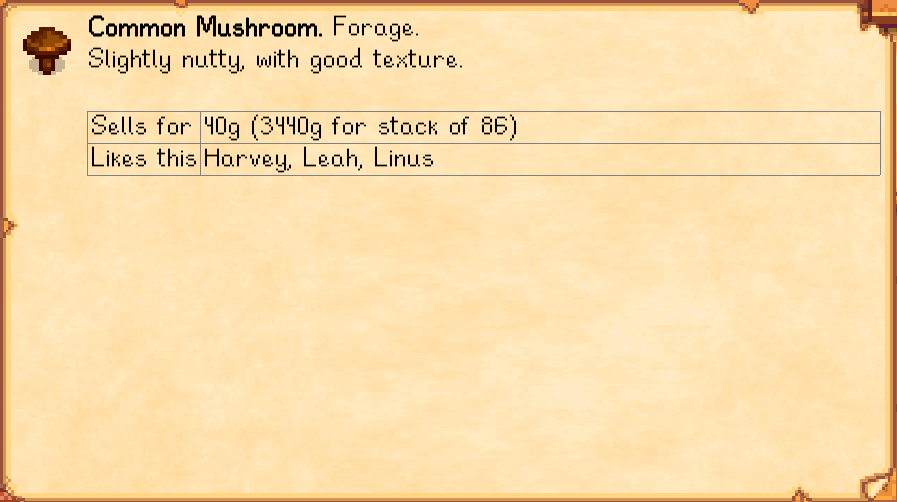
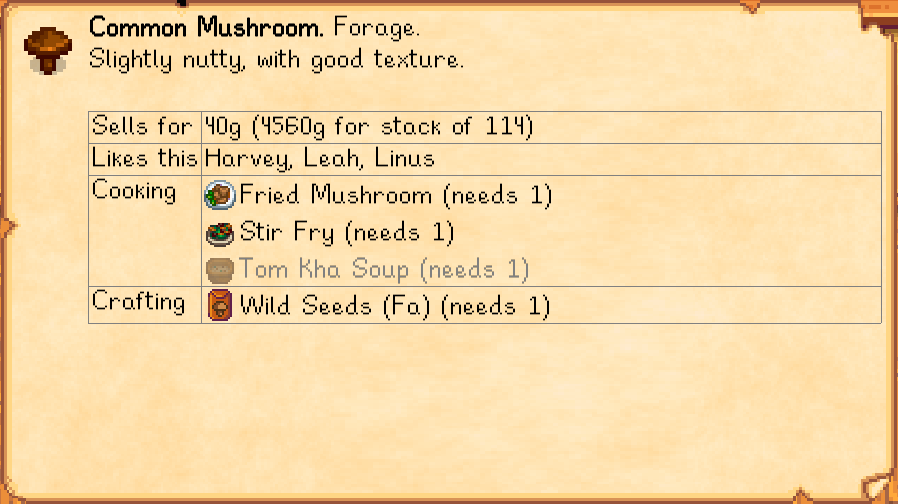
show recipes which use the looked-up item

diff --git a/LookupAnything/Framework/Fields/RecipesForIngredientField.cs b/LookupAnything/Framework/Fields/RecipesForIngredientField.cs
@@ -1,0 +1,93 @@
+using System;
+using System.Collections.Generic;
+using System.Linq;
+using Microsoft.Xna.Framework;
+using Microsoft.Xna.Framework.Graphics;
+using Pathoschild.LookupAnything.Components;
+using Pathoschild.LookupAnything.Framework.Models;
+using StardewValley;
+
+namespace Pathoschild.LookupAnything.Framework.Fields
+{
+    /// <summary>A metadata field which shows a list of recipes containing an ingredient.</summary>
+    internal class RecipesForIngredientField : GenericField
+    {
+        /*********
+        ** Properties
+        *********/
+        /// <summary>The recipe data to list (recipe => {player knows recipe, number required for recipe}).</summary>
+        private readonly IDictionary<RecipeData, Tuple<bool, int>> Recipes;
+
+
+        /*********
+        ** Public methods
+        *********/
+        /// <summary>Construct an instance.</summary>
+        /// <param name="label">A short field label.</param>
+        /// <param name="itemID">The ingredient's item ID.</param>
+        /// <param name="recipes">The recipe to list.</param>
+        public RecipesForIngredientField(string label, int itemID, RecipeData[] recipes)
+            : base(label, null, hasValue: true)
+        {
+            this.Recipes = recipes
+                .ToDictionary(
+                    recipe => recipe,
+                    recipe => Tuple.Create(recipe.KnowsRecipe(Game1.player), recipe.Ingredients[itemID])
+                );
+        }
+
+        /// <summary>Draw the value (or return <c>null</c> to render the <see cref="GenericField.Value"/> using the default format).</summary>
+        /// <param name="spriteBatch">The sprite batch being drawn.</param>
+        /// <param name="font">The recommended font.</param>
+        /// <param name="position">The position at which to draw.</param>
+        /// <param name="wrapWidth">The maximum width before which content should be wrapped.</param>
+        /// <returns>Returns the drawn dimensions, or <c>null</c> to draw the <see cref="GenericField.Value"/> using the default format.</returns>
+        public override Vector2? DrawValue(SpriteBatch spriteBatch, SpriteFont font, Vector2 position, float wrapWidth)
+        {
+            float height = 0;
+
+            // get icon size
+            float textHeight = font.MeasureString("ABC").Y;
+            Vector2 iconSize = new Vector2(textHeight);
+
+            // draw recipes
+            foreach (var entry in this.Recipes)
+            {
+                // get data
+                RecipeData recipe = entry.Key;
+                bool isKnown = entry.Value.Item1;
+                int numberRequired = entry.Value.Item2;
+                Item item = recipe.Recipe.createItem();
+
+                // draw icon
+                {
+                    // get sprite data
+                    Tuple<Texture2D, Rectangle> spriteData = GameHelper.GetSprite(item);
+                    if (spriteData != null)
+                    {
+                        Texture2D spriteSheet = spriteData.Item1;
+                        Rectangle spriteRectangle = spriteData.Item2;
+
+                        // calculate dimensions
+                        float largestDimension = Math.Max(spriteRectangle.Width, spriteRectangle.Height);
+                        float scale = iconSize.X / largestDimension;
+                        float leftOffset = Math.Max((iconSize.X - (spriteRectangle.Width * scale)) / 2, 0);
+                        float topOffset = Math.Max((iconSize.Y - (spriteRectangle.Height * scale)) / 2, 0);
+
+                        // draw
+                        Color iconTint = isKnown ? Color.White : Color.White * .5f;
+                        spriteBatch.DrawBlock(spriteSheet, spriteRectangle, position.X + leftOffset, position.Y + height + topOffset, iconTint, scale);
+                    }
+                }
+
+                // draw text
+                Color color = isKnown ? Color.Black : Color.Gray;
+                Vector2 textSize = spriteBatch.DrawStringBlock(font, $"{recipe.Name} (needs {numberRequired})", position + new Vector2(iconSize.X + 3, height + 5), wrapWidth - iconSize.X, color);
+
+                height += Math.Max(iconSize.Y, textSize.Y) + 5;
+            }
+
+            return new Vector2(wrapWidth, height);
+        }
+    }
+}

diff --git a/LookupAnything/GameHelper.cs b/LookupAnything/GameHelper.cs
@@ -7,9 +7,11 @@ using Microsoft.Xna.Framework;
 using Microsoft.Xna.Framework.Graphics;
 using Pathoschild.LookupAnything.Components;
 using Pathoschild.LookupAnything.Framework.Constants;
+using Pathoschild.LookupAnything.Framework.Models;
 using StardewModdingAPI;
 using StardewValley;
 using StardewValley.Menus;
+using StardewValley.Objects;
 using Object = StardewValley.Object;
 
 namespace Pathoschild.LookupAnything
@@ -26,6 +28,9 @@ namespace Pathoschild.LookupAnything
         /// <summary>The cached list of characters who can receive gifts.</summary>
         private static Lazy<NPC[]> GiftableVillagers;
 
+        /// <summary>The cached recipes.</summary>
+        private static Lazy<RecipeData[]> Recipes;
+
 
         /*********
         ** Public methods
@@ -38,6 +43,7 @@ namespace Pathoschild.LookupAnything
         {
             GameHelper.GiftTastes = new Lazy<IDictionary<GiftTaste, IDictionary<string, int[]>>>(GameHelper.FetchGiftTastes);
             GameHelper.GiftableVillagers = new Lazy<NPC[]>(GameHelper.FetchGiftableVillagers);
+            GameHelper.Recipes = new Lazy<RecipeData[]>(GameHelper.FetchRecipes);
         }
 
         /****
@@ -98,6 +104,19 @@ namespace Pathoschild.LookupAnything
                     tastes[npc] = GiftTaste.Neutral;
             }
             return tastes;
+        }
+
+        /// <summary>Get the recipes for which an item is needed.</summary>
+        public static IEnumerable<RecipeData> GetRecipes()
+        {
+            return GameHelper.Recipes.Value;
+        }
+
+        /// <summary>Get the recipes for which an item is needed.</summary>
+        /// <param name="itemID">The item ID.</param>
+        public static IEnumerable<RecipeData> GetRecipesForIngredient(int itemID)
+        {
+            return GameHelper.GetRecipes().Where(p => p.Ingredients.ContainsKey(itemID));
         }
 
         /// <summary>Get the items a specified NPC can receive.</summary>
@@ -321,6 +340,31 @@ namespace Pathoschild.LookupAnything
             return pixels[spriteIndex];
         }
 
+        /// <summary>Get the sprite for an item.</summary>
+        /// <param name="item">The item.</param>
+        /// <returns>Returns a tuple containing the sprite sheet and the sprite's position and dimensions within the sheet.</returns>
+        public static Tuple<Texture2D, Rectangle> GetSprite(Item item)
+        {
+            // stardard object
+            if (item is Object)
+            {
+                Object obj = (Object)item;
+                return obj.bigCraftable
+                    ? Tuple.Create(Game1.bigCraftableSpriteSheet, Object.getSourceRectForBigCraftable(obj.ParentSheetIndex))
+                    : Tuple.Create(Game1.objectSpriteSheet, Game1.getSourceRectForStandardTileSheet(Game1.objectSpriteSheet, obj.ParentSheetIndex, Object.spriteSheetTileSize, Object.spriteSheetTileSize));
+            }
+
+            // boots or ring
+            if (item is Boots || item is Ring)
+            {
+                int indexInTileSheet = (item as Boots)?.indexInTileSheet ?? ((Ring)item).indexInTileSheet;
+                return Tuple.Create(Game1.objectSpriteSheet, Game1.getSourceRectForStandardTileSheet(Game1.objectSpriteSheet, indexInTileSheet, Object.spriteSheetTileSize, Object.spriteSheetTileSize));
+            }
+
+            // unknown item
+            return null;
+        }
+
 
         /****
         ** UI
@@ -355,6 +399,7 @@ namespace Pathoschild.LookupAnything
         {
             Game1.addHUDMessage(new HUDMessage(message, 3));
         }
+
 
         /*********
         ** Private methods
@@ -453,6 +498,19 @@ namespace Pathoschild.LookupAnything
             }
 
             return giftTastes;
+        }
+
+        /// <summary>Get the recipe ingredients.</summary>
+        private static RecipeData[] FetchRecipes()
+        {
+            return
+                (
+                    from entry in CraftingRecipe.cookingRecipes.Concat(CraftingRecipe.craftingRecipes)
+                    let recipe = new CraftingRecipe(entry.Key, CraftingRecipe.cookingRecipes.ContainsKey(entry.Key))
+                    select new RecipeData(recipe)
+                )
+                .OrderBy(p => p.Name)
+                .ToArray();
         }
     }
 }

diff --git a/LookupAnything/Framework/Models/RecipeData.cs b/LookupAnything/Framework/Models/RecipeData.cs
@@ -1,0 +1,45 @@
+using System.Collections.Generic;
+using StardewValley;
+
+namespace Pathoschild.LookupAnything.Framework.Models
+{
+    /// <summary>Represents metadata about a recipe.</summary>
+    internal class RecipeData
+    {
+        /*********
+        ** Accessors
+        *********/
+        /// <summary>The underlying recipe.</summary>
+        public CraftingRecipe Recipe { get; }
+
+        /// <summary>The name of the recipe.</summary>
+        public string Name { get; }
+
+        /// <summary>How the recipe is used to create an object.</summary>
+        public RecipeType Type { get; }
+
+        /// <summary>The items needed to craft the recipe (item ID => number needed).</summary>
+        public IDictionary<int, int> Ingredients { get; }
+
+
+        /*********
+        ** Public methods
+        *********/
+        /// <summary>Construct an instance.</summary>
+        /// <param name="recipe">The recipe to parse.</param>
+        public RecipeData(CraftingRecipe recipe)
+        {
+            this.Recipe = recipe;
+            this.Name = recipe.name;
+            this.Type = recipe.isCookingRecipe ? RecipeType.Cooking : RecipeType.Crafting;
+            this.Ingredients = GameHelper.GetPrivateField<Dictionary<int, int>>(recipe, "recipeList");
+        }
+
+        /// <summary>Get whether a player knows this recipe.</summary>
+        /// <param name="farmer">The farmer to check.</param>
+        public bool KnowsRecipe(Farmer farmer)
+        {
+            return farmer.knowsRecipe(this.Name);
+        }
+    }
+}

diff --git a/LookupAnything/Framework/Subjects/ItemSubject.cs b/LookupAnything/Framework/Subjects/ItemSubject.cs
@@ -6,6 +6,7 @@ using Microsoft.Xna.Framework.Graphics;
 using Pathoschild.LookupAnything.Framework.Constants;
 using Pathoschild.LookupAnything.Framework.Data;
 using Pathoschild.LookupAnything.Framework.Fields;
+using Pathoschild.LookupAnything.Framework.Models;
 using StardewValley;
 using Object = StardewValley.Object;
 
@@ -88,6 +89,11 @@ namespace Pathoschild.LookupAnything.Framework.Subjects
                 float daysLeft = fence.health * metadata.Constants.FenceDecayRate / 60 / 24;
                 yield return new PercentageBarField("Health", (int)fence.health, (int)maxHealth, Color.Green, Color.Red, $"{Math.Round(health * 100)}% (roughly {Math.Round(daysLeft)} days left)");
             }
+
+            // recipes
+            Dictionary<RecipeType, RecipeData[]> recipes = GameHelper.GetRecipesForIngredient(item.parentSheetIndex).GroupBy(p => p.Type).ToDictionary(p => p.Key, p => p.ToArray());
+            foreach (RecipeType type in recipes.Keys)
+                yield return new RecipesForIngredientField(type.ToString(), item.parentSheetIndex, recipes[type]);
         }
 
         /// <summary>Draw the subject portrait (if available).</summary>

diff --git a/LookupAnything/Framework/RecipeType.cs b/LookupAnything/Framework/RecipeType.cs
@@ -1,0 +1,12 @@
+namespace Pathoschild.LookupAnything.Framework
+{
+    /// <summary>How a recipe is used to create an item.</summary>
+    internal enum RecipeType
+    {
+        /// <summary>The recipe is used through the crafting menu.</summary>
+        Crafting,
+
+        /// <summary>The recipe is cooked in the farmhouse kitchen.</summary>
+        Cooking
+    }
+}
